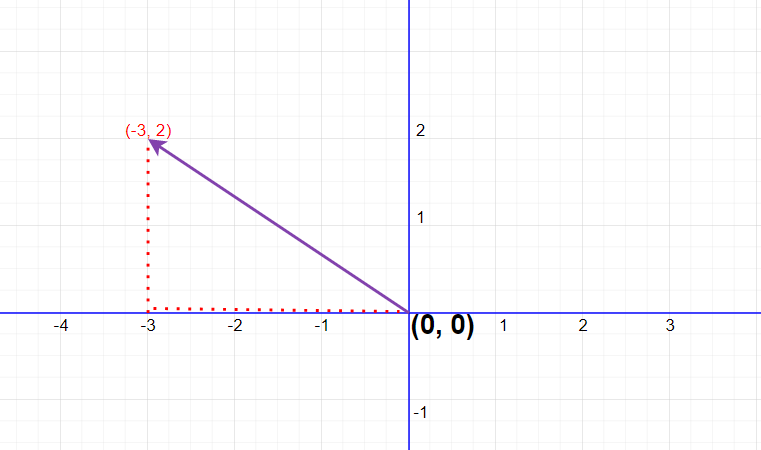
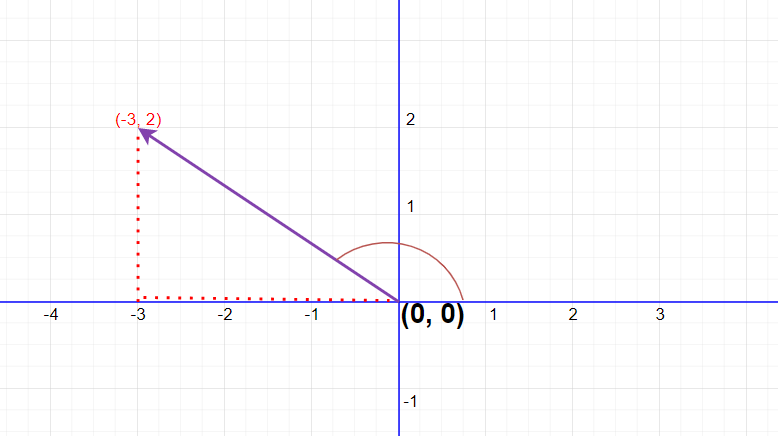
something

Changed region(s): [[0.0, 0.0, 1.0, 1.0], [0.1511, 0.2385, 0.3627, 0.5069], [0.5742, 0.6261, 0.6045, 0.656]]

diff --git a/test/vector.md b/test/vector.md
@@ -30,4 +30,4 @@ sort: 2
   <img src="{{site.baseurl}}/assets/images/vector_position.PNG" alt = "vector images">
 </center>
 
-এখানে দেখো, (-3, 2) দিয়েই ভেক্টরকে প্রকাশ করা যাচ্ছে। আমরা চাইলে ভেক্টরের মান বের করতে পারবো, $\sqrt{(-3)^2 + (2)^2}$ দিয়ে, আবার চাইলে ভেক্টরটি কত ডিগ্রি কোনে পয়েন্ট করছে সেটিও বের করতে পারবো। 
+এখানে দেখো, (-3, 2) দিয়েই ভেক্টরকে প্রকাশ করা যাচ্ছে। আমরা চাইলে ভেক্টরের মান বের করতে পারবো, $$\sqrt{(-3)^2 + (2)^2}$$ দিয়ে, আবার চাইলে ভেক্টরটি কত ডিগ্রি কোনে পয়েন্ট করছে সেটিও বের করতে পারবোঃ $$(180-\atan{\frac{2}{3}})^\circ$$ । 
